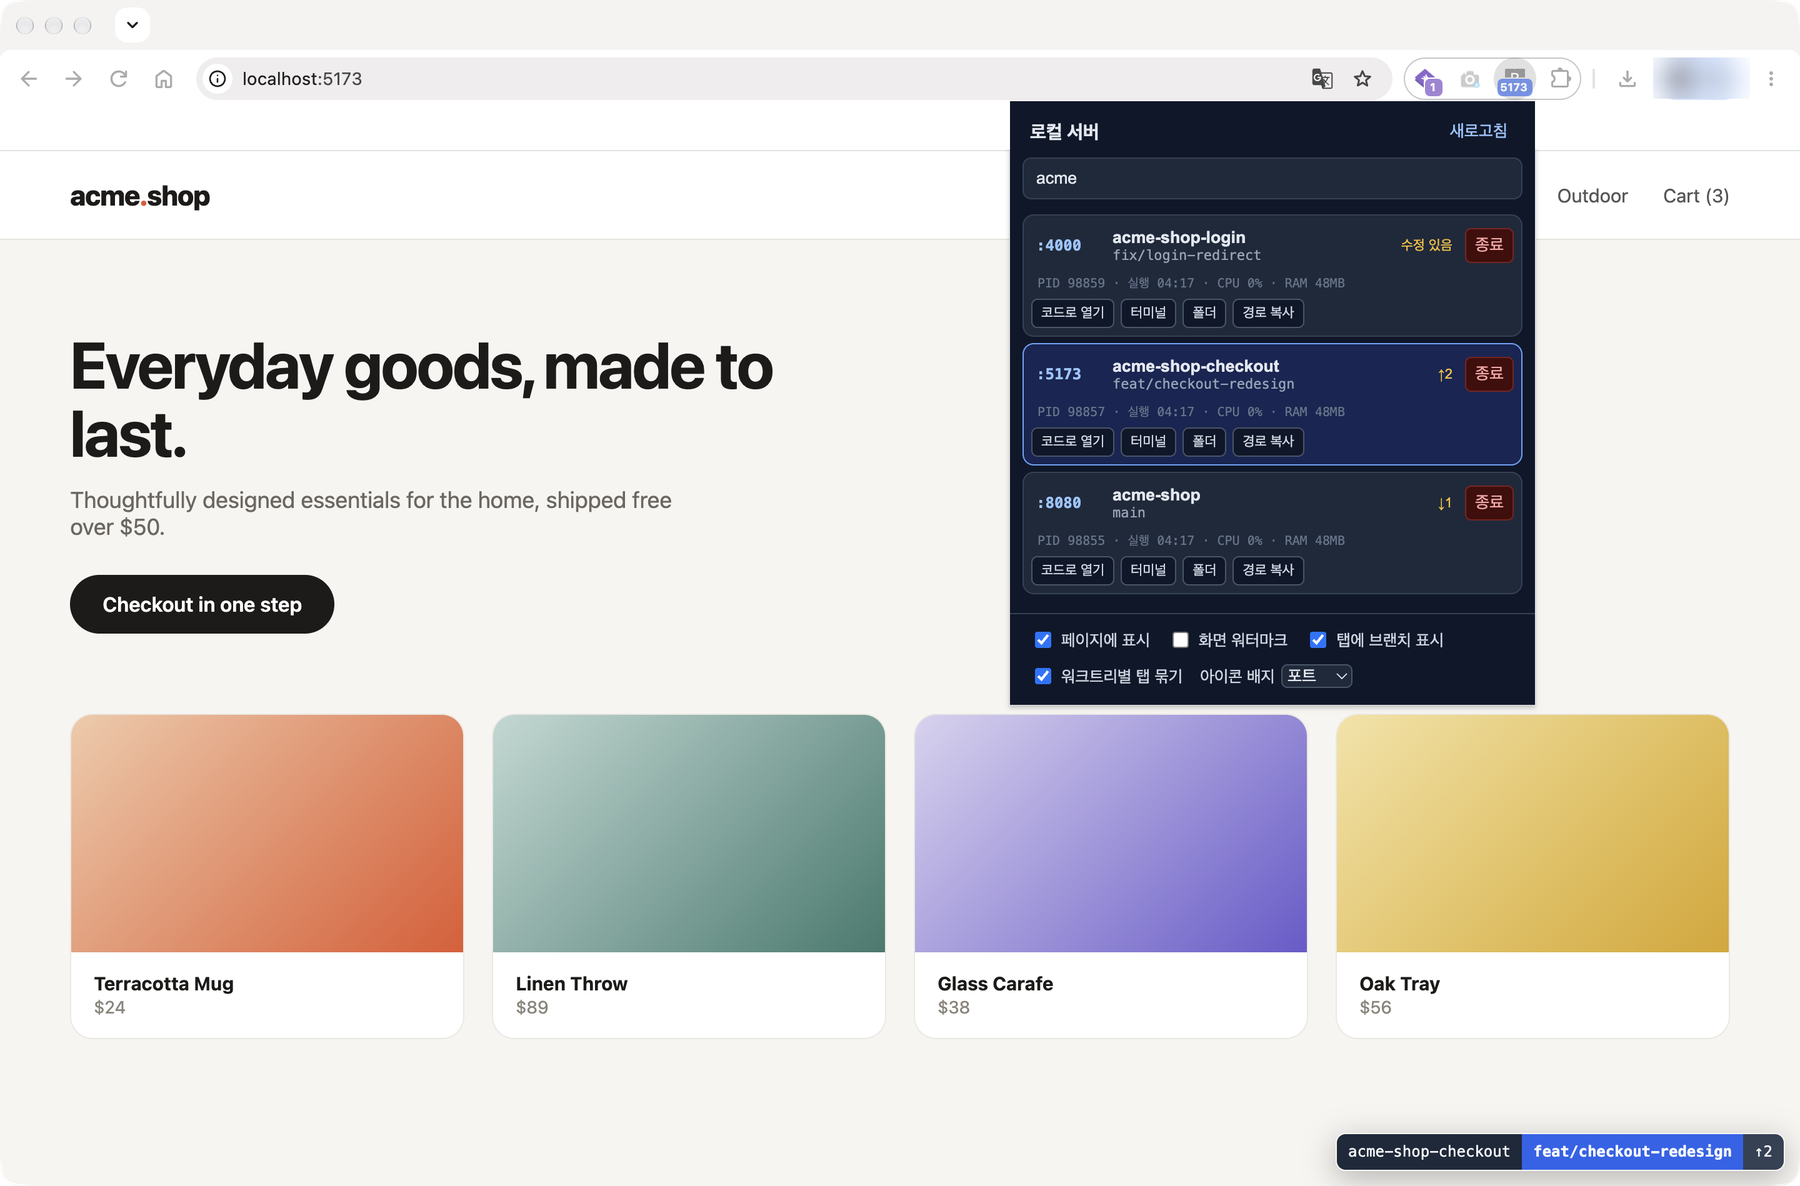
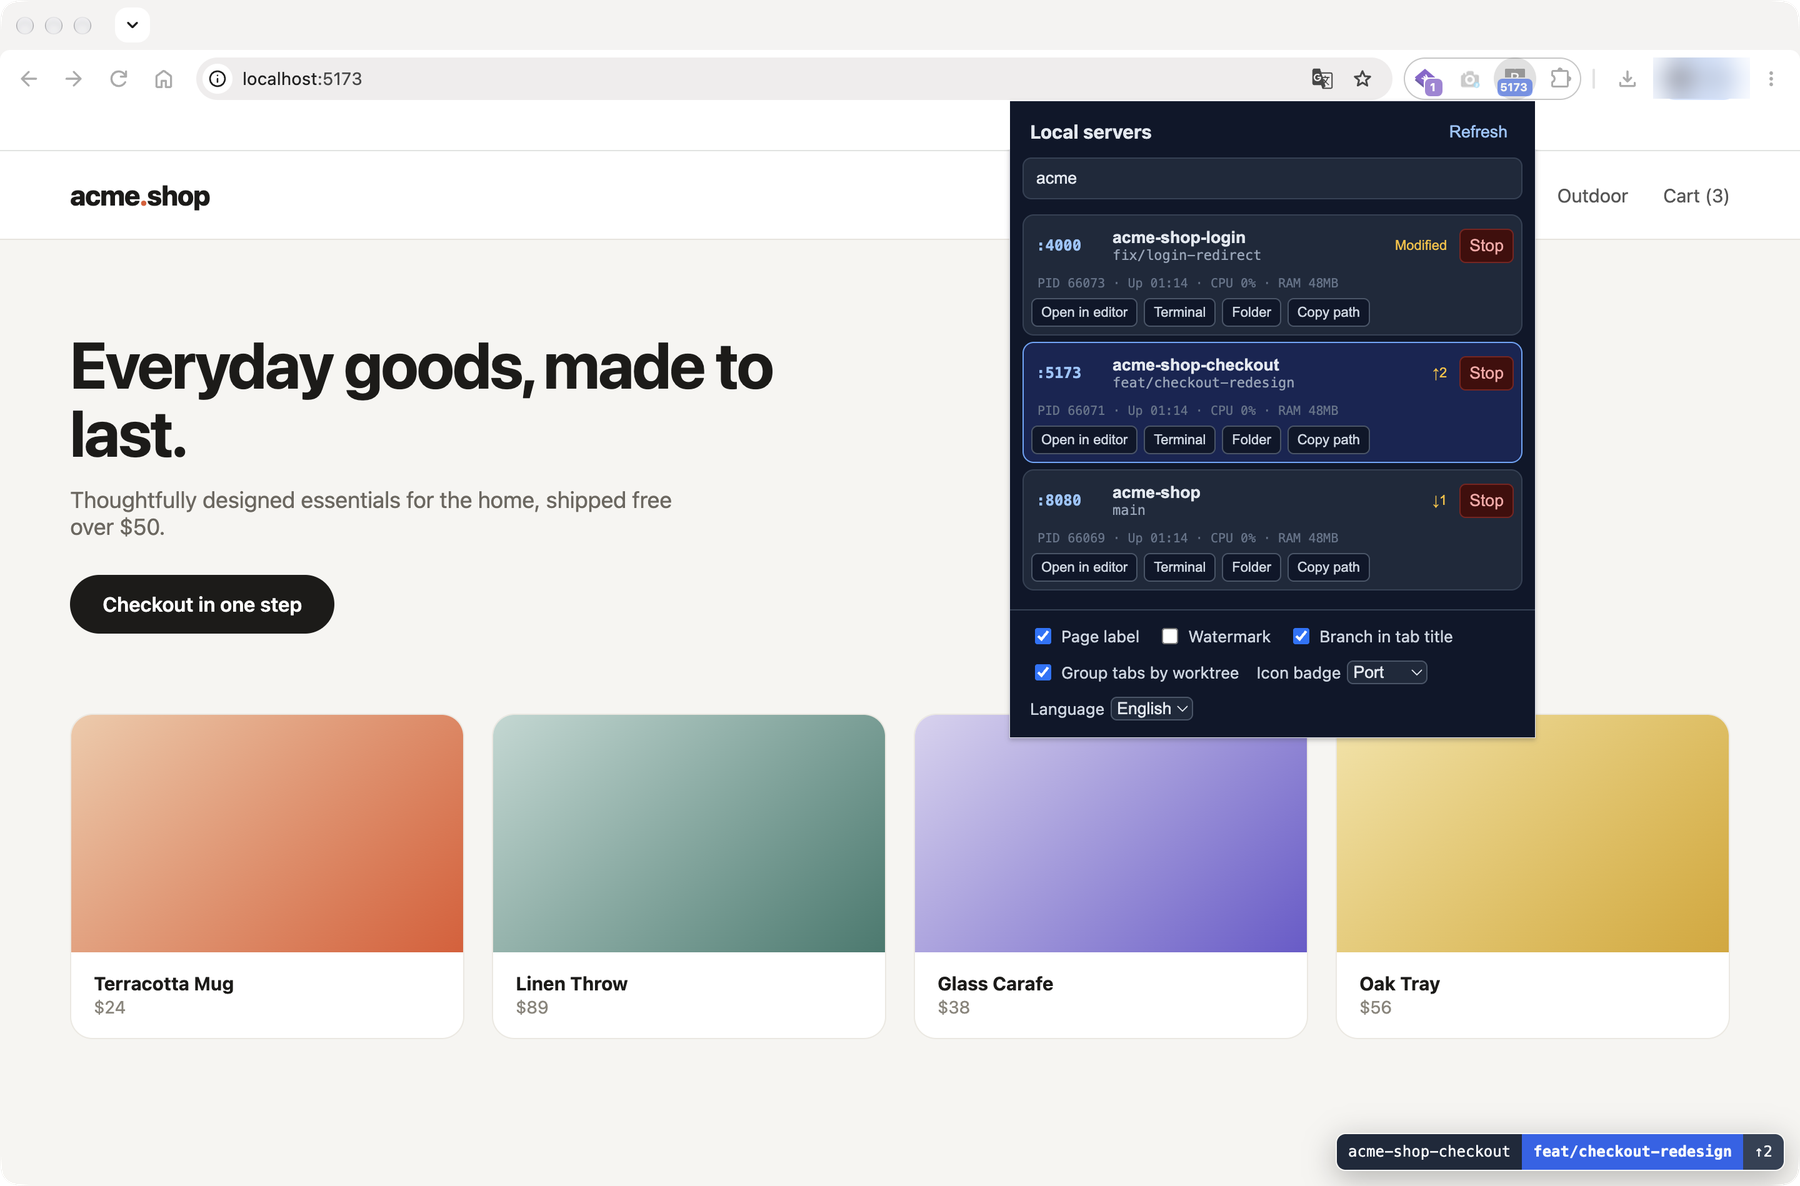
docs: show the English UI in the README screenshots
Recapture the hero image and popup with the English UI and document the
Language setting. Also unindent a closing </td> so GitHub does not render
it as a code block.

diff --git a/README.md b/README.md
@@ -21,7 +21,7 @@ It adds a small label to localhost pages, prefixes tab titles with the current b
 - Stops a server only after revalidating its port and PID
 - Reduces background work with request coalescing, short-lived caching, and visibility-aware polling
 
-    </td>
+</td>
     <td width="42%" valign="top">
       <img src="docs/images/popup.png" alt="Branchport popup listing servers on ports 4000, 5173, and 8080">
     </td>
@@ -59,7 +59,7 @@ The manifest public key keeps the extension ID fixed at `gclkmofklkhonlkneebngbd
 
 Open any `localhost` or `127.0.0.1` page. The page label shows the worktree and branch; clicking it copies the working directory.
 
-The popup lists every detected Git-backed localhost server. Its settings control the page label, watermark, title prefix, automatic tab grouping, and toolbar badge.
+The popup lists every detected Git-backed localhost server. Its settings control the page label, watermark, title prefix, automatic tab grouping, toolbar badge, and language. The language defaults to Chrome's UI language (English or Korean).
 
 - `●`: uncommitted changes
 - `↑2`: two commits ahead of upstream
